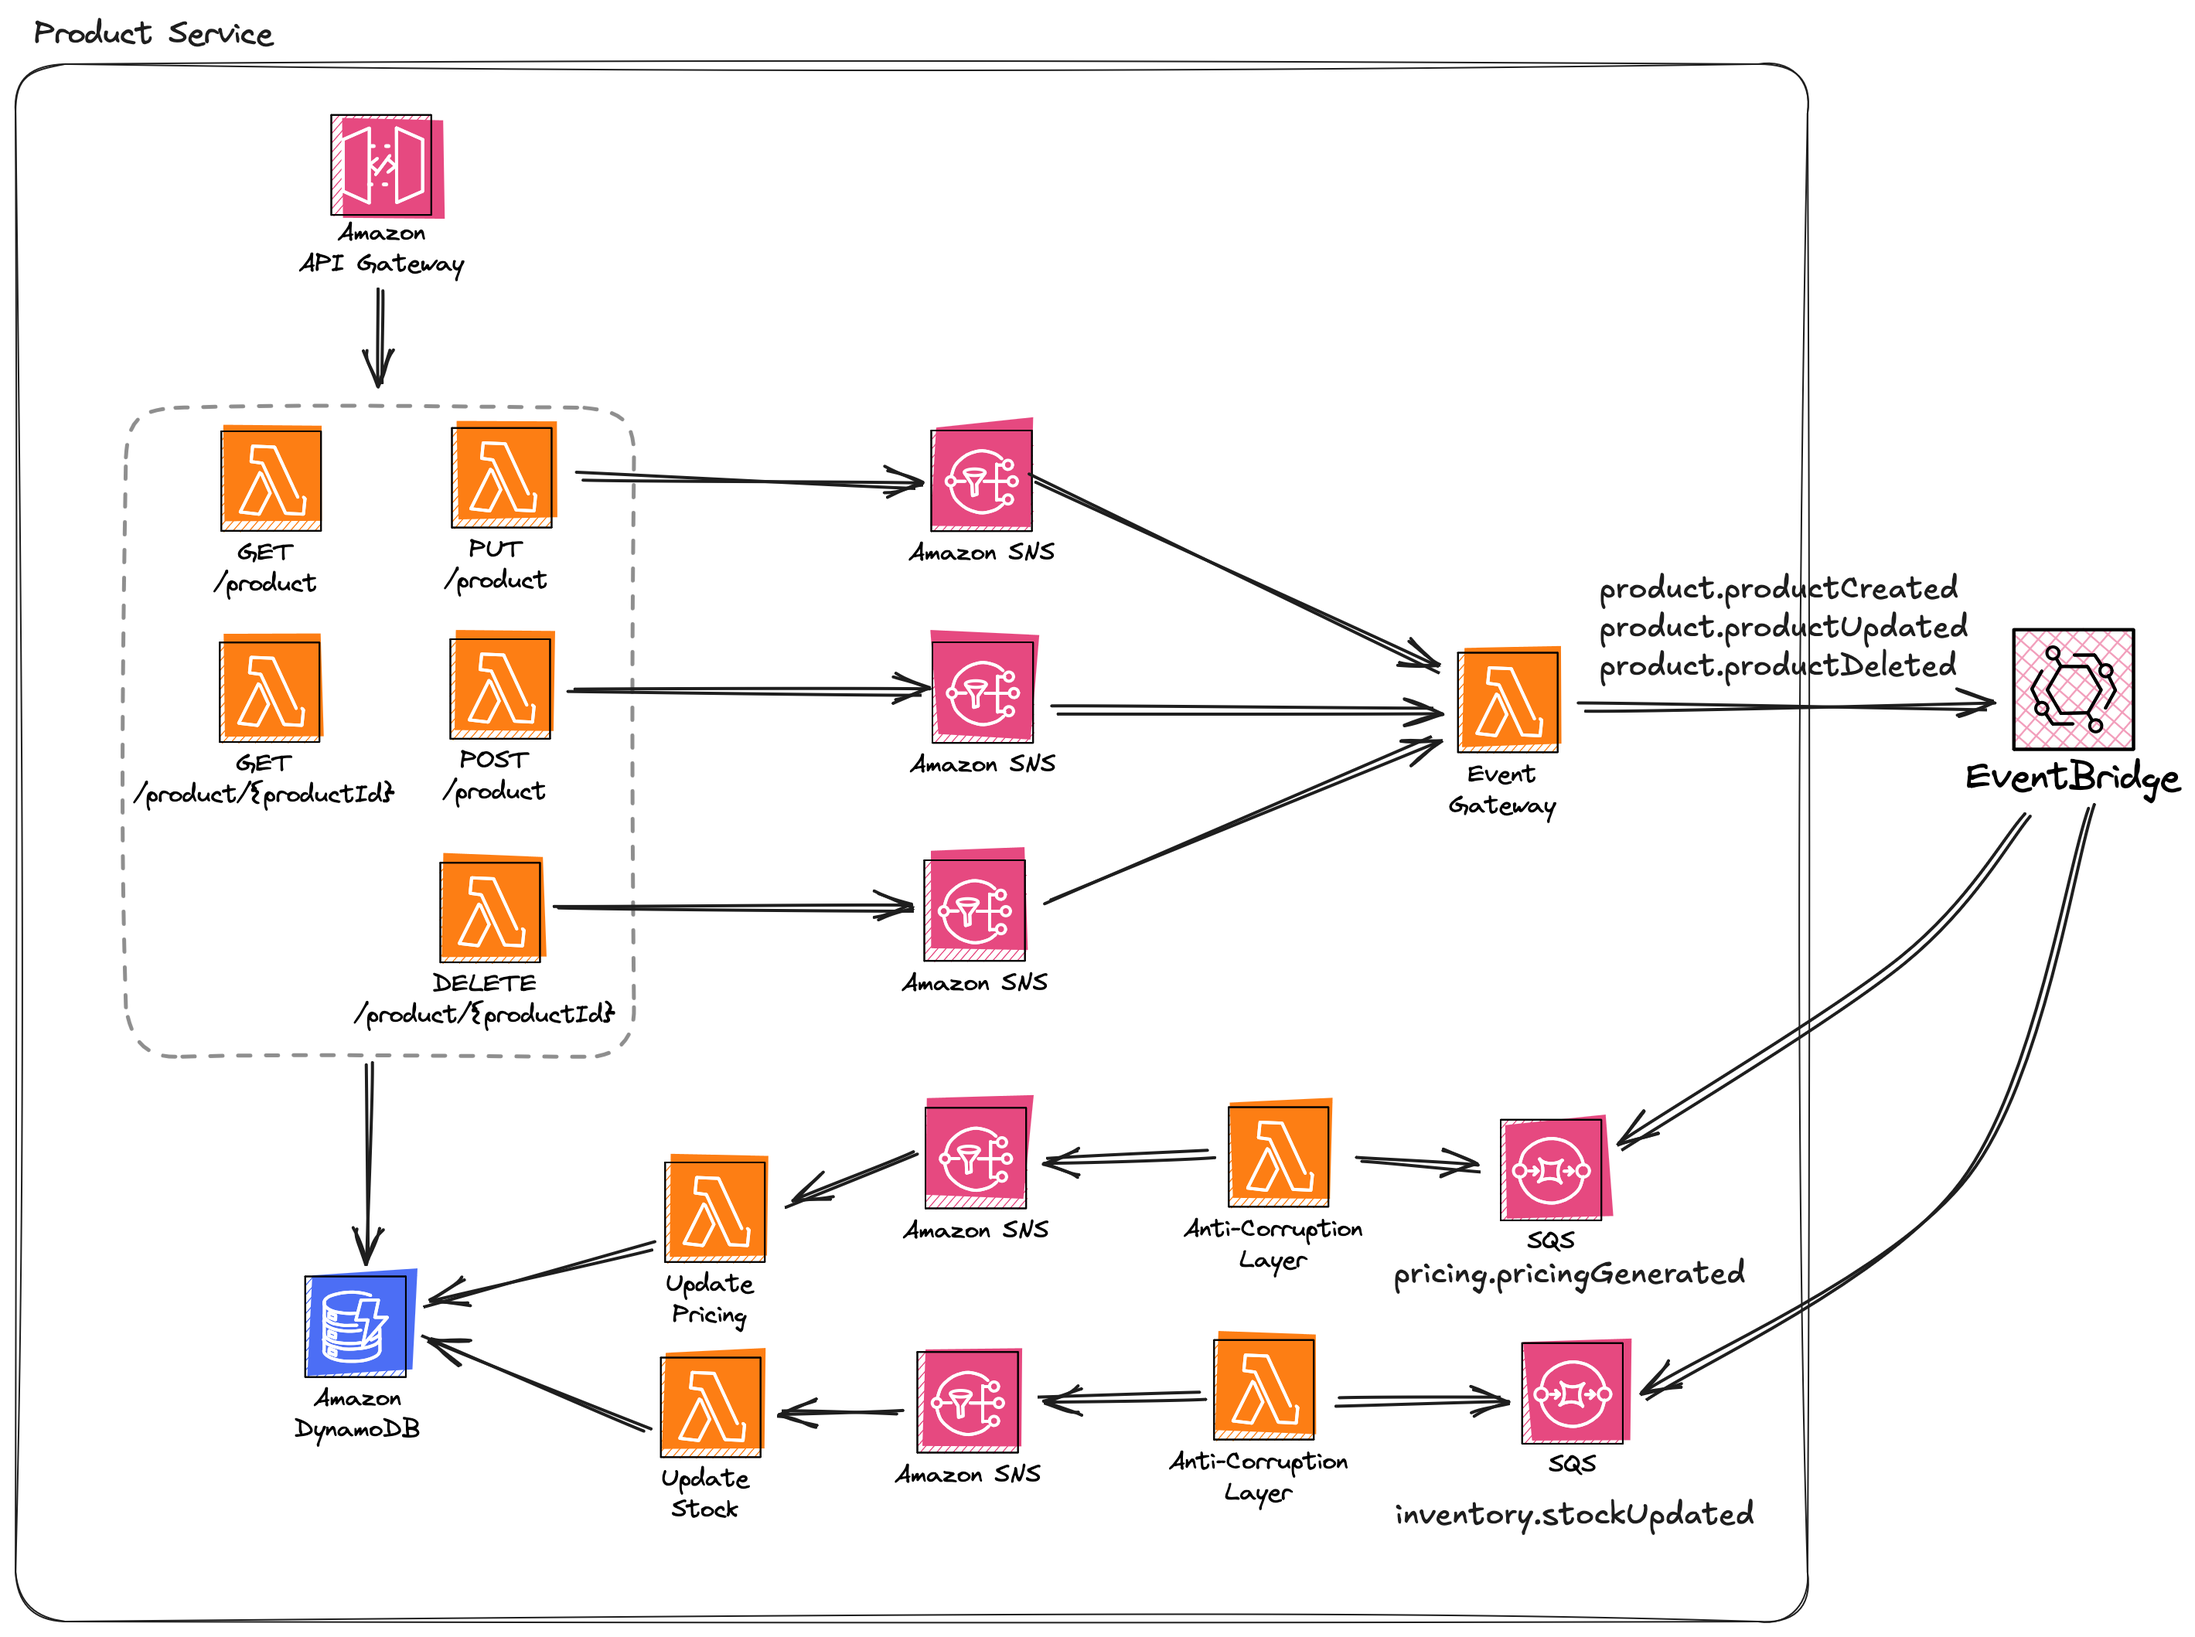
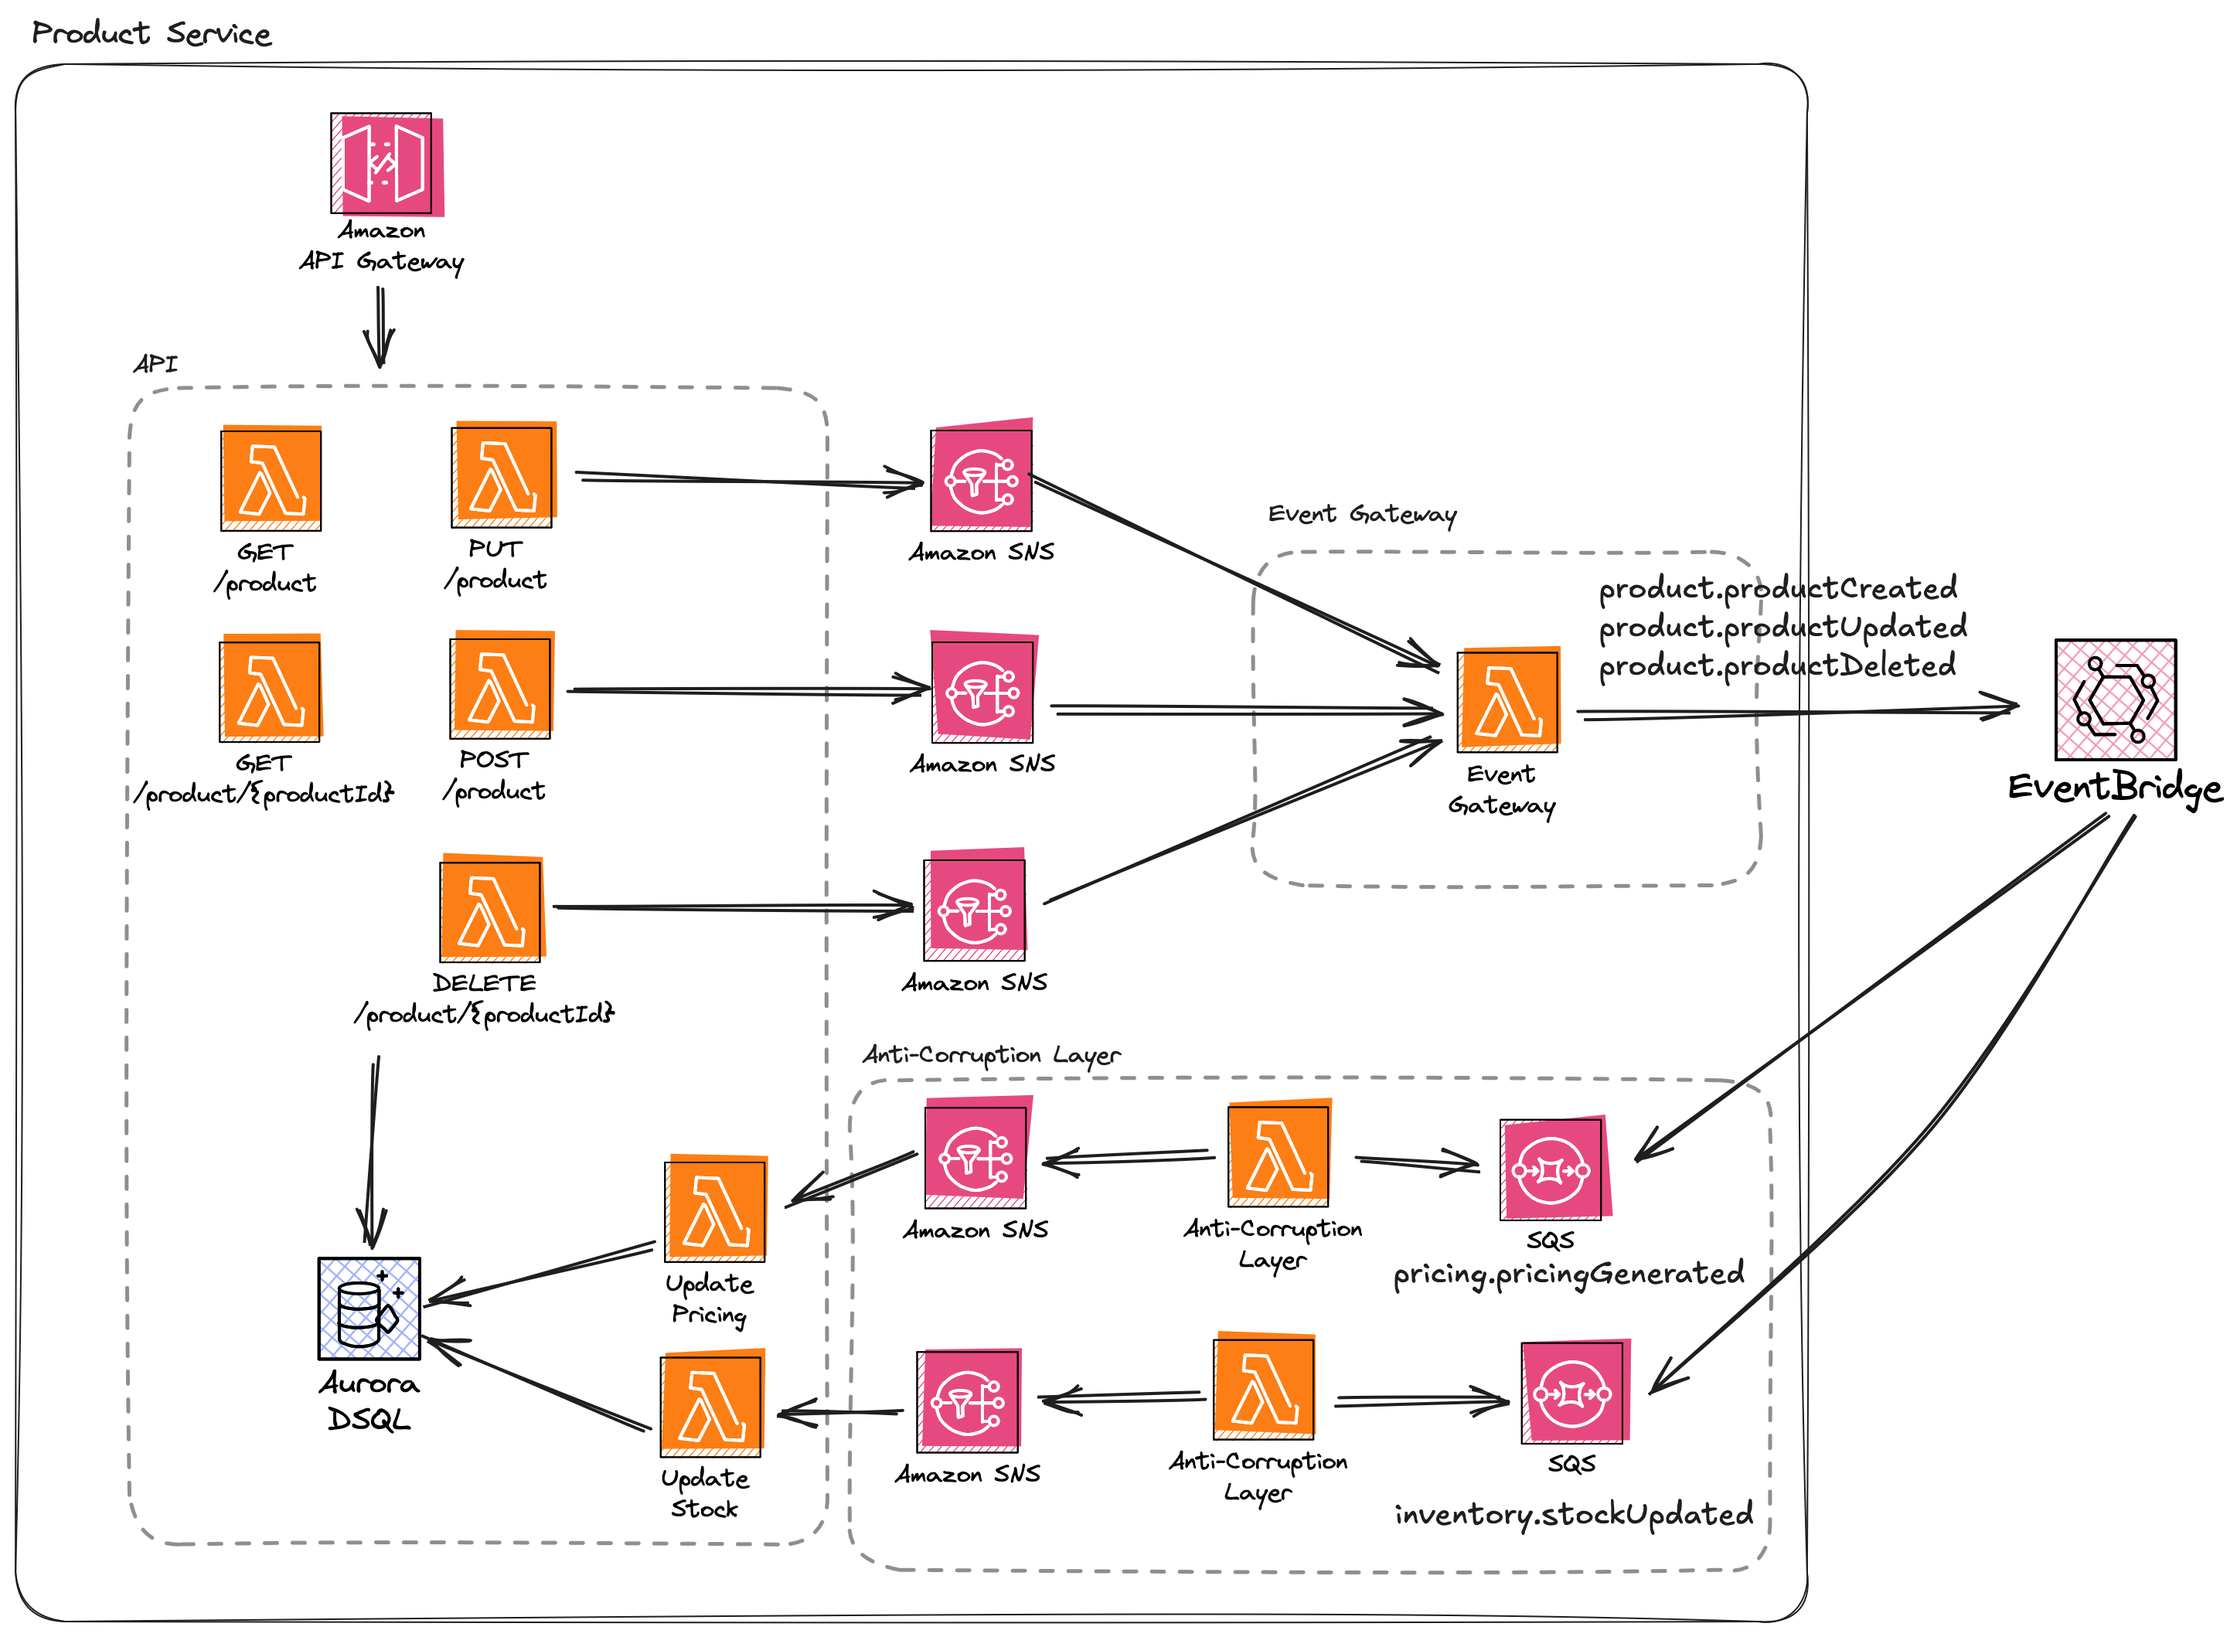
chore: update docs

diff --git a/src/product-management-service/README.md b/src/product-management-service/README.md
@@ -2,7 +2,7 @@
 
 **Runtime: GoLang**
 
-**AWS Services Used: API Gateway, Lambda, DynamoDB, SNS, SQS, EventBridge**
+**AWS Services Used: API Gateway, Lambda, Aurora DSQL, SNS, SQS, EventBridge**
 
 ![Architecture Diagram](../../img/product-service-arch.png)
 
